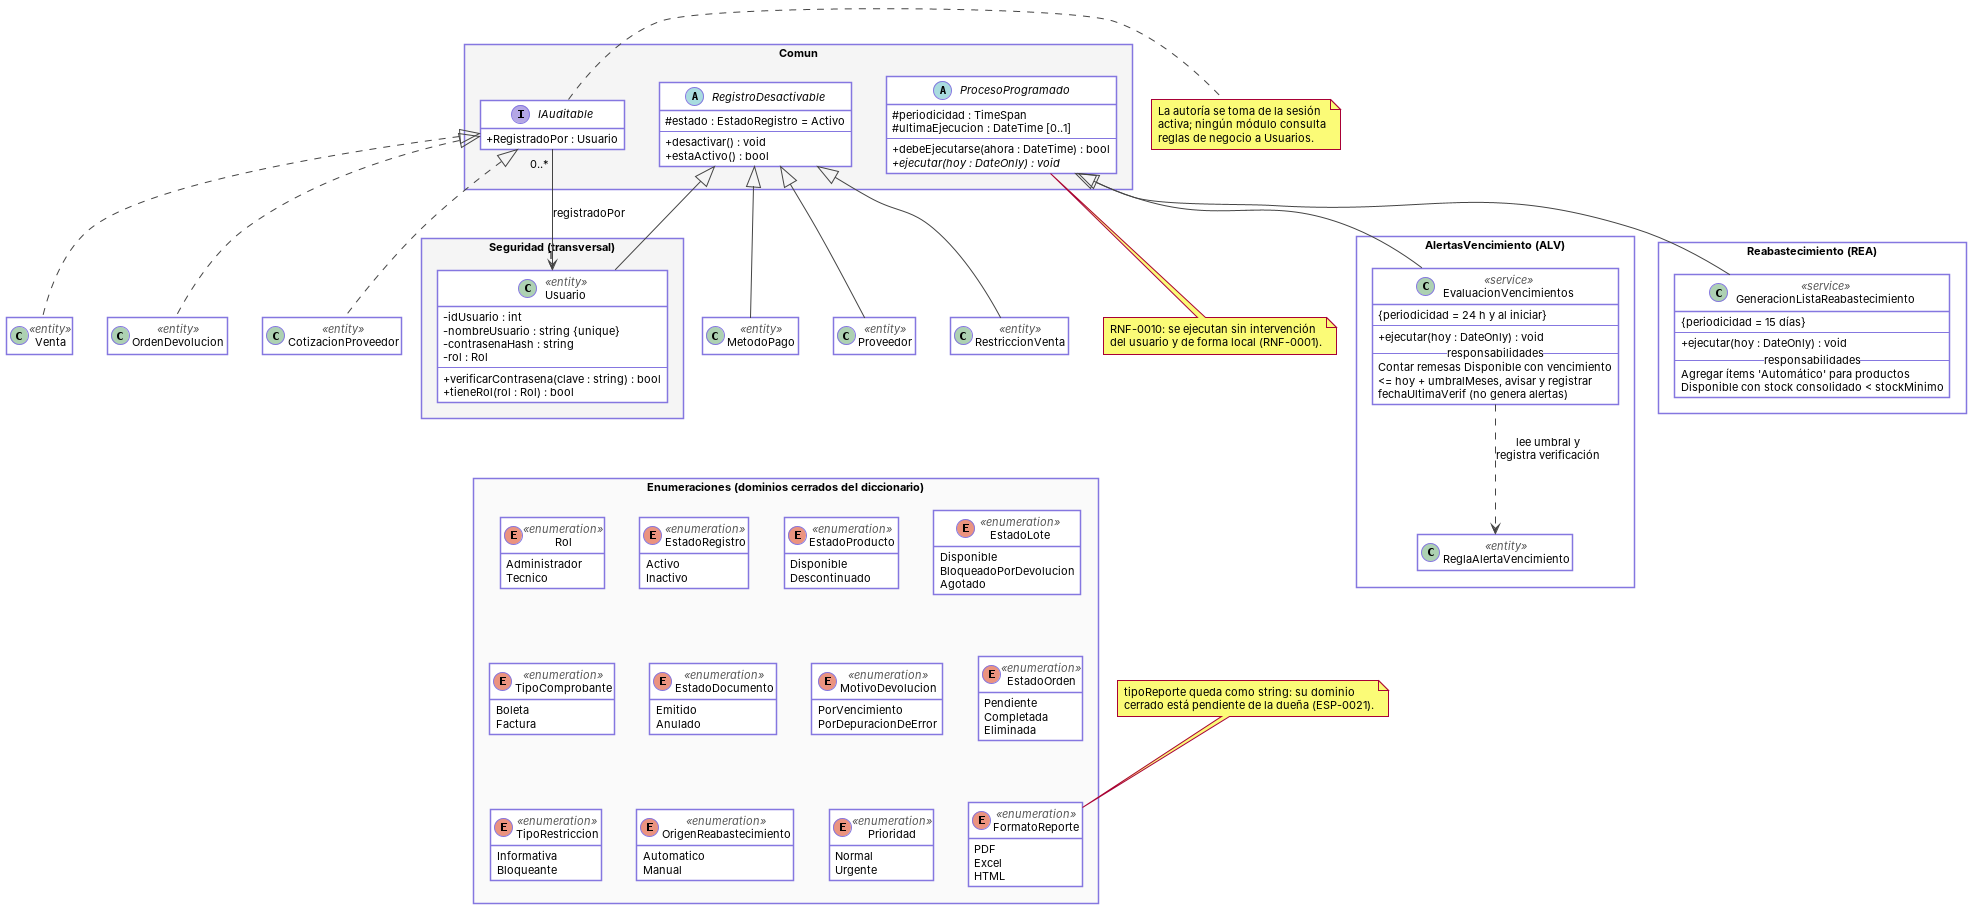
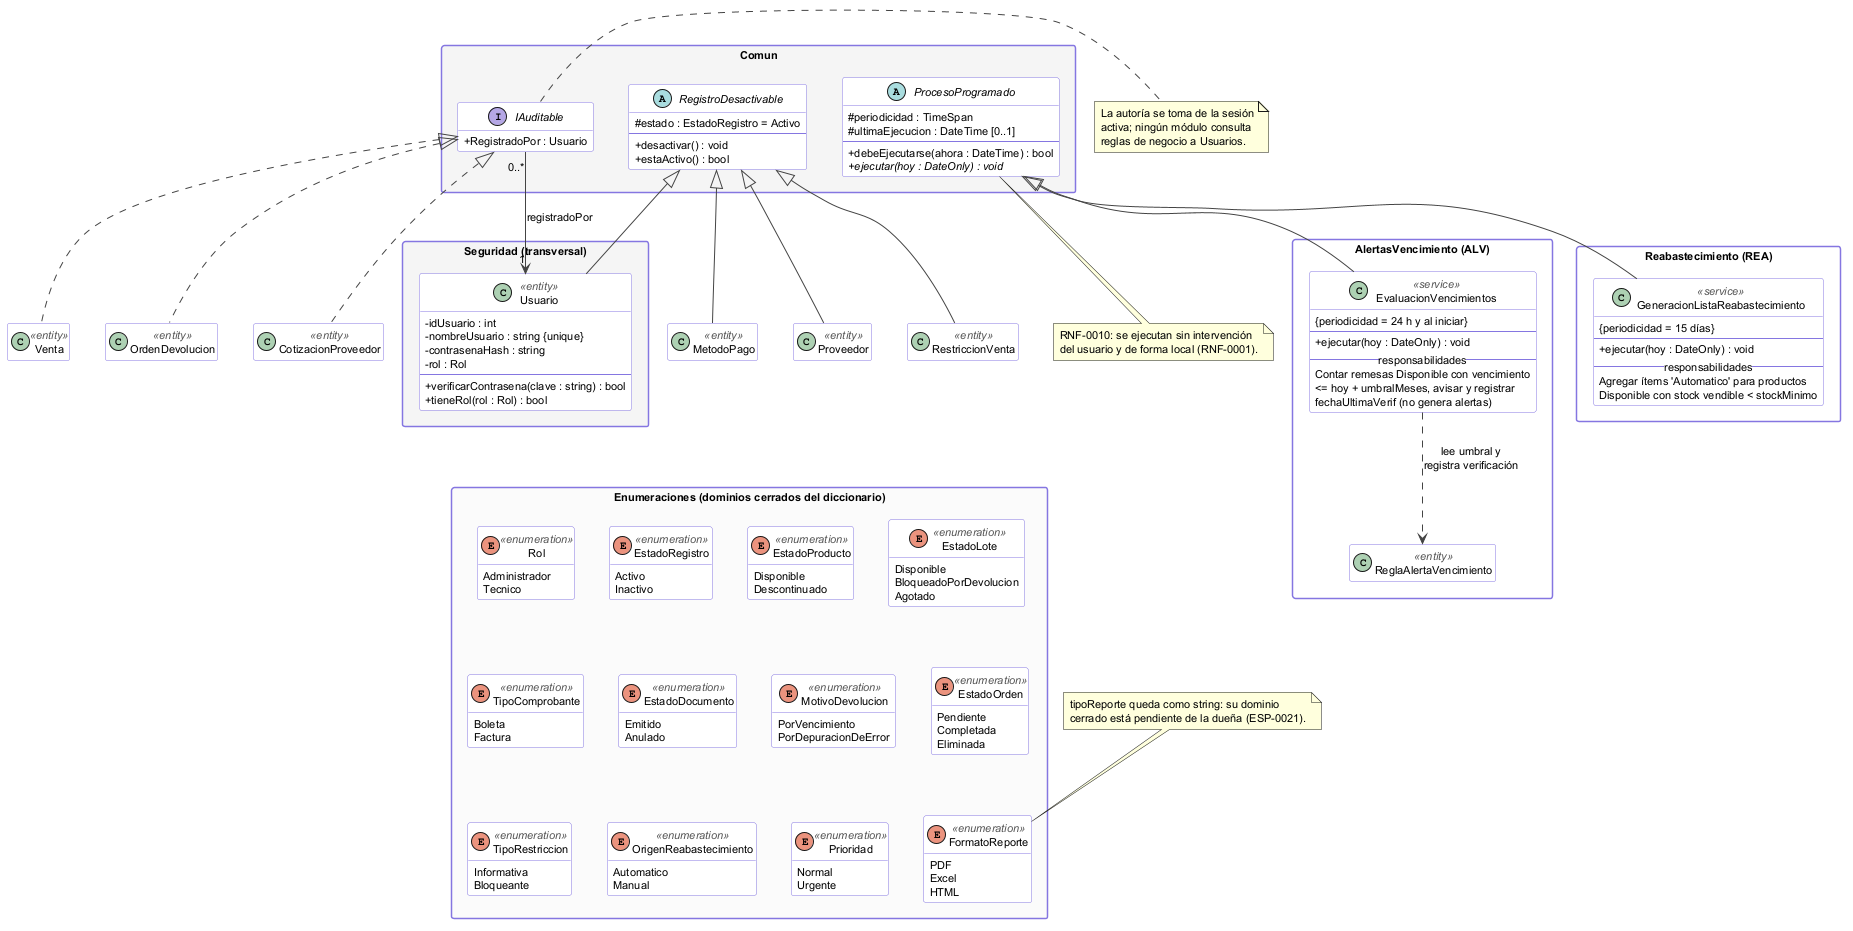
docs(arquitectura): alinear referencias vigentes con DEC-028 a DEC-041
Actualiza las referencias que habían quedado desactualizadas tras la corrección
de las auditorías de la base de datos. No se tocan seguimiento/12-revision-mockups.md,
Insumo_Matriz_Interfaces_ArquitecturaGenerica_v2.md ni 01-educciones.md.

- Contexto_Arquitectura_FARMASIL_ParaAgentesIA.md: la baja condicional sigue
  DEC-029 (XACT_ABORT OFF, punto de guardado; XACT_STATE() = 1 aplica la baja
  lógica y -1 revierte todo e informa el error); se agregan la plataforma
  .NET 10 LTS y SQL Server 2025 Express (DEC-028), el stock físico y el stock
  vendible (DEC-040) y los literales sin tilde (DEC-031); el reabastecimiento
  compara el stock vendible; la referencia al diccionario pasa a v10.00.
- VL-03_MecanismosComunes v02.00 y VP-12_Reabastecimiento v02.00: diccionario
  v10.00, stock vendible y literal 'Automatico'. Se regeneran sus PNG con el
  motor por defecto de PlantUML.
- diseno/06-guia-nomenclatura-mockups.md v06.00: solo la tabla de tipos, con
  .NET 10 LTS y SQL Server 2025 Express.
- riesgos/10-gestion-riesgos.md v08.00: "stock consolidado" pasa a stock vendible
  en ILA-0046-R01 y 'Automático' a 'Automatico' en ILA-0045-R01. No cambia ningún
  estado ni el conteo de riesgos.
- docs/arquitectura/VistaLogica_v01.md: se agrega al inicio el aviso de documento
  histórico; no se reescribe.

Refs #63

diff --git a/docs/arquitectura/Contexto_Arquitectura_FARMASIL_ParaAgentesIA.md b/docs/arquitectura/Contexto_Arquitectura_FARMASIL_ParaAgentesIA.md
@@ -2,7 +2,7 @@
 
 > Léeme primero, antes de tocar código. Este documento resume la arquitectura genérica ya cerrada del sistema (13 módulos) en un formato pensado para que un agente de codificación entienda rápido los límites del sistema, qué depende de qué, y a qué tabla mapea cada módulo — sin tener que leer el catálogo de requisitos completo (`catalogo/01-educciones.md` a `04-trazabilidad.md`, `modelo/05-diccionario-datos.md`) para empezar a trabajar. Si necesitas el detalle fino de una operación concreta (reglas de negocio, pseudocódigo, validaciones), ve a la especificación (`ESP-XXXX`) citada en cada módulo — este documento no las reemplaza, solo te dice dónde buscar.
 >
-> **Estado:** arquitectura genérica cerrada y verificada contra el diagrama visual (`docs/arquitectura/ArquitecturaGenerica_Nivel1.png` y `_Nivel2.png`). Fuente: `catalogo/01-educciones.md`, `02-ilaciones.md`, `03-especificaciones.md`, `modelo/05-diccionario-datos.md` v05.00, `diseno/07-matriz-permisos.md`.
+> **Estado:** arquitectura genérica cerrada y verificada contra el diagrama visual (`docs/arquitectura/ArquitecturaGenerica_Nivel1.png` y `_Nivel2.png`). Fuente: `catalogo/01-educciones.md`, `02-ilaciones.md`, `03-especificaciones.md`, `modelo/05-diccionario-datos.md` v10.00, `diseno/07-matriz-permisos.md`.
 
 ---
 
@@ -65,18 +65,21 @@ Comparación Precios → Inventario, Proveedores, Reabastecimiento
 
 ---
 
-## 5. Cuatro decisiones de diseño ya cerradas — no las reabras
+## 5. Decisiones de diseño ya cerradas — no las reabras
 
 1. **Ventas NO accede a Inventario directamente.** La cadena es `Ventas → Lotes → Inventario`. `TBL_DETALLE_VENTAS.id_lote` es FK a `TBL_LOTES`, no a `TBL_PRODUCTOS`. Al descontar stock en una venta, hazlo contra la remesa (`TBL_LOTES.stock_actual`), no contra el producto.
 2. **Lotes es su propia entidad, con proveedor propio.** `TBL_LOTES.id_proveedor` puede ser distinto del proveedor habitual del producto en `TBL_PRODUCTOS`. No asumas que son el mismo valor.
 3. **La selección de remesa en una venta sigue criterio FEFO** (primero en vencer, primero en salir) — es responsabilidad de Lotes exponerlo, no de Ventas calcularlo.
-4. **Las bajas condicionales no consultan tablas de otros módulos.** En ESP-0008, ESP-0020, ESP-0036, ESP-0040 y ESP-0044 la elección entre borrado físico y baja lógica la decide la base de datos: intenta el `DELETE` dentro de la transacción con un punto de guardado; si SQL Server lo rechaza por una clave foránea (error 547), revierte al punto de guardado y aplica la baja lógica. No implementes la verificación enumerando tablas: crearía dependencias inversas que la arquitectura no tiene (ver RG-011 en `riesgos/10-gestion-riesgos.md`).
+4. **Las bajas condicionales no consultan tablas de otros módulos.** En ESP-0008, ESP-0020, ESP-0036, ESP-0040 y ESP-0044 la elección entre borrado físico y baja lógica la decide la base de datos (DEC-009, DEC-029; subactividad VP-B). La operación corre con `XACT_ABORT OFF`, que se deja explícito. Fija un punto de guardado antes del `DELETE` y captura el error 547 de clave foránea. Si `XACT_STATE()` vale 1, vuelve al punto de guardado y aplica la baja lógica en la misma transacción. Si vale -1, revierte toda la transacción e informa el error; no reintenta la baja en otra transacción. Con `XACT_ABORT ON` el punto de guardado no rescata la transacción. No implementes la verificación enumerando tablas: crearía dependencias inversas que la arquitectura no tiene (ver RG-011 en `riesgos/10-gestion-riesgos.md`).
+5. **Plataforma (DEC-028).** El sistema se construye con .NET 10 LTS (C#, WPF) y SQL Server 2025 Express, con publicación autocontenida win-x64 y sin recorte de ensamblados (RNF-0008). No uses APIs ni tipos de .NET 8.
+6. **Dos definiciones de stock (DEC-040).** El *stock físico* es la suma de `TBL_LOTES.stock_actual` de todas las remesas del medicamento, incluidas las bloqueadas, agotadas o vencidas, y es lo que muestra Inventario (ESP-0006). El *stock vendible* es la suma de las remesas 'Disponible' no vencidas, y es lo que compara el reabastecimiento con `stock_minimo`. Ninguno de los dos se guarda como columna. Es provisional hasta que la dueña responda (PEN-024).
+7. **Literales de dominio sin tilde (DEC-031).** Los valores cerrados se escriben igual en los `CHECK` y en los `enum` de C#, sin tilde: `'Automatico'`, `'Tecnico'`, `'Bloqueado por devolucion'`. La base se crea con la intercalación `Modern_Spanish_CI_AS`, que distingue tildes.
 
 ---
 
 ## 6. Los 2 módulos nuevos (Entrevista 3) — qué hacen exactamente
 
-- **Reabastecimiento:** proceso que compara `SUMA(TBL_LOTES.stock_actual)` agrupado por producto contra `TBL_PRODUCTOS.stock_minimo`, y genera `TBL_LISTA_REABASTECIMIENTO` con lo que está bajo mínimo. No es una acción de un usuario puntual (sin `id_usuario`) — modélalo como un proceso programado o un cálculo bajo demanda, no como un formulario CRUD estándar.
+- **Reabastecimiento:** proceso que compara el stock vendible de cada producto (la suma de `TBL_LOTES.stock_actual` de sus remesas 'Disponible' no vencidas, DEC-040) contra `TBL_PRODUCTOS.stock_minimo`, y genera `TBL_LISTA_REABASTECIMIENTO` con lo que está bajo mínimo. No es una acción de un usuario puntual (sin `id_usuario`) — modélalo como un proceso programado o un cálculo bajo demanda, no como un formulario CRUD estándar.
 - **Comparación de Precios de Proveedores:** registra cotizaciones (`TBL_COTIZACIONES_PROVEEDOR`) de distintos proveedores para los medicamentos que están en la lista de reabastecimiento, y exporta el comparativo a CSV filtrado por proveedor. Sí lleva `id_usuario` (acción manual de la Dueña).
 - Ambos son **exclusivos de la Dueña** (ningún endpoint/pantalla de Técnica debe exponerlos).
 
@@ -95,7 +98,7 @@ Comparación Precios → Inventario, Proveedores, Reabastecimiento
 | Matriz de dependencias e interfaces (texto, la fuente de este documento) | `docs/arquitectura/Insumo_Matriz_Interfaces_ArquitecturaGenerica_v2.md` |
 | Mockups de pantallas | `diseno/Mockups/` |
 | Diagramas de casos de uso | `docs/diagramas/` |
-| Vista lógica (paquetes, clases, mecanismos comunes, MVC) | `docs/arquitectura/VistaLogica_v01.md` y `docs/diagramas/plaintext-VistaLogica/VL-01` a `VL-04` (`.puml`), con sus PNG en `docs/diagramas/` |
+| Vista lógica (paquetes, clases, mecanismos comunes, MVC) | `docs/arquitectura/VistaLogica_v01.md` (histórico; lo vigente está en el diccionario v10.00 y en DEC-028 a DEC-041) y `docs/diagramas/plaintext-VistaLogica/VL-01` a `VL-04` (`.puml`), con sus PNG en `docs/diagramas/` |
 | **No usar para implementar** | `docs/diagramas/VL_01_Trazabilidad.png` y `docs/diagramas/Vista Logica.png`: imágenes hechas a mano solo para la exposición, sin fuente PlantUML. Ignóralas al generar código; si difieren de los `.puml`, prevalecen los `.puml` (DEC-024). |
 | Riesgos identificados y su estado | `riesgos/10-gestion-riesgos.md` |
 | Cuestiones abiertas y decisiones ya tomadas (no reabrir sin revisar) | `seguimiento/11-registro-pendientes.md` |

diff --git a/riesgos/10-gestion-riesgos.md b/riesgos/10-gestion-riesgos.md
@@ -1,6 +1,6 @@
 # Gestión de Riesgos — FARMASIL
 
-**Versión:** 07.00 · **Fecha:** 18/10/2026 · **Base de verificación:** `catalogo/02-ilaciones.md`, `catalogo/03-especificaciones.md` y `modelo/05-diccionario-datos.md` v06.00 de este repositorio.
+**Versión:** 08.00 · **Fecha:** 08/11/2026 · **Base de verificación:** `catalogo/02-ilaciones.md`, `catalogo/03-especificaciones.md` y `modelo/05-diccionario-datos.md` v06.00 de este repositorio.
 
 Insumo para la plantilla de gestión de riesgos GRI_0002: el equipo revisa, ajusta y traslada estas
 filas a la hoja de cálculo. Cubre **las 52 ilaciones de los 13 módulos** más un bloque de **riesgos
@@ -17,6 +17,7 @@ generales (RG)**, según la observación del profesor.
 | 05.00 | 13/10/2026 | Se resuelve ILA-0004-R03: la venta con cualquier comprobante asociado no puede eliminarse. |
 | 06.00 | 13/10/2026 | Se resuelven ILA-0033-R02 (contraseña como hash con sal), ILA-0041-R01 (remesa nueva con existencias mayores que cero) e ILA-0043-R02 (validación de la nueva fecha de vencimiento). |
 | 07.00 | 18/10/2026 | Se cierran por no aplicar los cuatro riesgos de concurrencia entre usuarios (ILA-0001-R02, ILA-0003-R02, ILA-0023-R03, ILA-0031-R02): RNF-0003 v02.00 establece un solo usuario por vez. |
+| 08.00 | 08/11/2026 | Terminología vigente (DEC-031, DEC-040): ILA-0046-R01 habla de stock vendible y ILA-0045-R01 usa el literal 'Automatico'. No cambia ningún estado ni el conteo de riesgos. |
 
 En la columna *Plan de mitigación*, el prefijo **"v02 —"**, **"v03 —"**, **"v04 —"**, **"v05 —"**, **"v06 —"** o **"v07 —"** indica en qué versión se resolvió el riesgo y cita la especificación que lo resuelve.
 
@@ -225,9 +226,9 @@ afectan a **todo** el sistema FARMASIL (todas las especificaciones dependen, por
 
 | Clave | Riesgo identificado | Prob. | % | Impacto | Estado | Plan de mitigación | Artefactos |
 |---|---|---|---|---|---|---|---|
-| ILA-0045-R01 | El proceso periódico que agrega a la lista los medicamentos bajo `stock_minimo` no tiene especificación ni requisito no funcional (Anexo de 02-ilaciones, punto 4). | Baja | 10% | 4 | Resuelto | v04 — Condición 2 de RNF-0010: ejecución cada 15 días, origen 'Automático', prioridad 'Normal', sin duplicar ítems. | Anexo 02-ilaciones, 08-RNF |
+| ILA-0045-R01 | El proceso periódico que agrega a la lista los medicamentos bajo `stock_minimo` no tiene especificación ni requisito no funcional (Anexo de 02-ilaciones, punto 4). | Baja | 10% | 4 | Resuelto | v04 — Condición 2 de RNF-0010: ejecución cada 15 días, origen 'Automatico', prioridad 'Normal', sin duplicar ítems. | Anexo 02-ilaciones, 08-RNF |
 | ILA-0045-R02 | Un ítem no sale de la lista cuando se repone el stock: permanece hasta que la dueña lo elimina manualmente. | Baja | 10% | 2 | Resuelto | v04 — Decisión documentada en RNF-0010: el proceso no retira ítems; la dueña los retira al realizar el pedido (ESP-0048). | ESP-0048, proceso periódico |
-| ILA-0046-R01 | La vista de la lista no muestra el stock consolidado ni el stock mínimo, datos que la dueña necesita para decidir qué cotizar. | Media | 50% | 2 | Pendiente | Agregar ambas columnas a REA-TBL-LISTA-REABASTECIMIENTO. | ESP-0046 |
+| ILA-0046-R01 | La vista de la lista no muestra el stock vendible ni el stock mínimo, datos que la dueña necesita para decidir qué cotizar. | Media | 50% | 2 | Pendiente | Agregar ambas columnas a REA-TBL-LISTA-REABASTECIMIENTO. | ESP-0046 |
 | ILA-0047-R01 | No se define si el proceso periódico respeta o sobrescribe una prioridad cambiada manualmente. | Baja | 10% | 2 | Resuelto | v04 — RNF-0010 establece que el proceso no modifica la prioridad de los ítems existentes. Prueba T-006 agregada. | ESP-0047, proceso periódico |
 | ILA-0048-R01 | Si la dueña elimina un ítem automático cuyo medicamento sigue bajo el mínimo, la siguiente corrida del proceso lo vuelve a agregar. | Baja | 10% | 2 | Resuelto | v04 — RNF-0010 fija el comportamiento: el ítem vuelve a agregarse mientras el medicamento siga bajo el mínimo. Prueba T-006 agregada. | ESP-0048, proceso periódico |
 

diff --git a/diseno/06-guia-nomenclatura-mockups.md b/diseno/06-guia-nomenclatura-mockups.md
@@ -10,6 +10,7 @@
 
 | 05/09/2026 | 04.00 | Se incorpora el módulo 11 (lotes, prefijo **LOT**), derivado de la incorporación de `TBL_LOTES` al Diccionario de Datos v04.00. Los componentes de lote, vencimiento y stock se trasladan del módulo de inventario al nuevo módulo, y los módulos 1, 4 y 7 pasan a operar sobre la remesa en lugar del medicamento. | AUT-0001 |
 | 13/10/2026 | 05.00 | La contraseña se describe como hash con sal, conforme a RNF-0006 v05.00. | AUT-0001 |
+| 08/11/2026 | 06.00 | Se actualiza la tabla de tipos de la sección de componentes: SQL Server 2025 Express y .NET 10 LTS (DEC-028). | AUT-0001 |
 
 ---
 
@@ -88,7 +89,7 @@ Tres tipos se incorporan en esta versión. **FEC** ya se usaba en `DOC-FEC-FECHA
 
 El tipo del componente no se elige por criterio visual: lo determina el tipo del campo en el Diccionario de Datos v03.00 y el control que le corresponde en WPF según el stack definido en RNF-0008.
 
-| Tipo lógico del dato | SQL Server Express | Tipo en C# / .NET 8 | Control WPF | Prefijo |
+| Tipo lógico del dato | SQL Server 2025 Express | Tipo en C# / .NET 10 LTS | Control WPF | Prefijo |
 | --- | --- | --- | --- | --- |
 | Número entero | `INT` | `int` | TextBox con validación numérica | **NUM** |
 | Importe monetario | `DECIMAL(10,2)` | `decimal` | TextBox con formato de moneda | **NUM** |

diff --git a/docs/arquitectura/VistaLogica_v01.md b/docs/arquitectura/VistaLogica_v01.md
@@ -1,3 +1,5 @@
+> Documento histórico (v01). Lo vigente está en el diccionario de datos v10.00 y en DEC-028 a DEC-041 de seguimiento/11-registro-pendientes.md.
+
 # Vista Lógica — FARMASIL_APP (v01.00)
 
 > Primera versión de la vista lógica. Fuentes: arquitectura genérica cerrada (13 componentes, 18 dependencias; `Contexto_Arquitectura_FARMASIL_ParaAgentesIA.md`), Diccionario de Datos v09.00, ESP-0001 a ESP-0052, RNF-0006, RNF-0008 y RNF-0010. Las fuentes de los diagramas están en `docs/diagramas/plaintext-VistaLogica/` y sus imágenes en `docs/diagramas/`.
